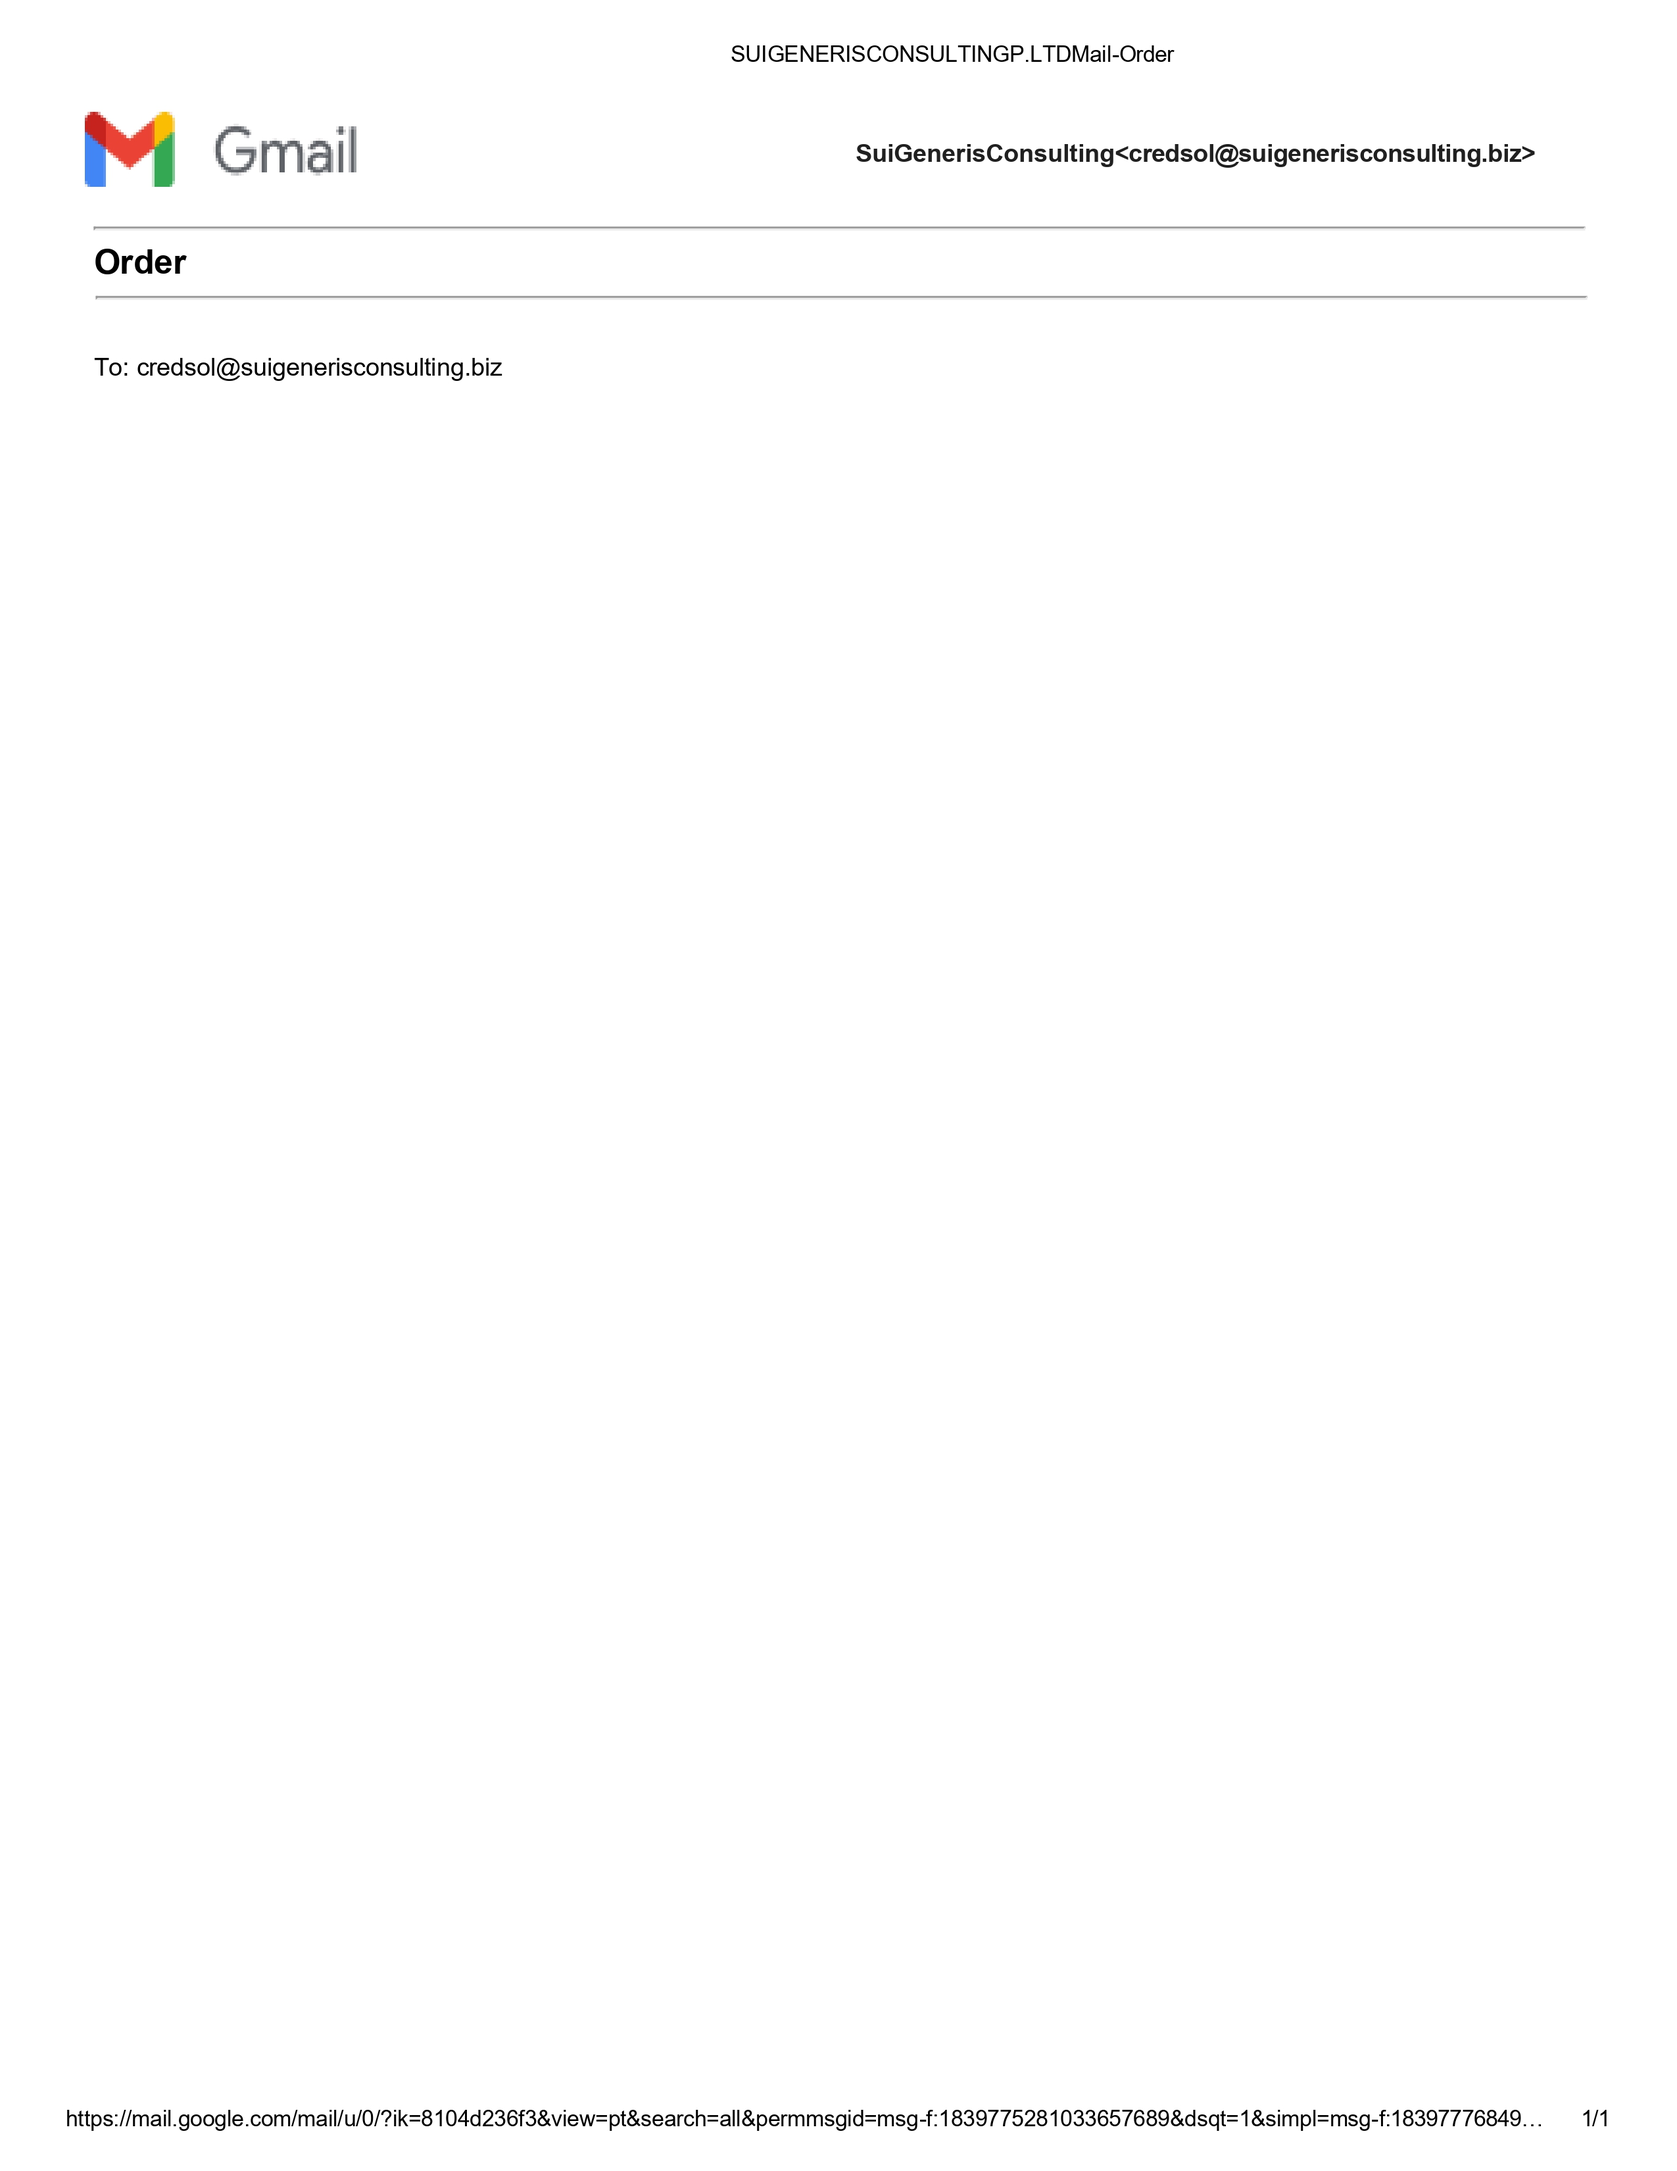
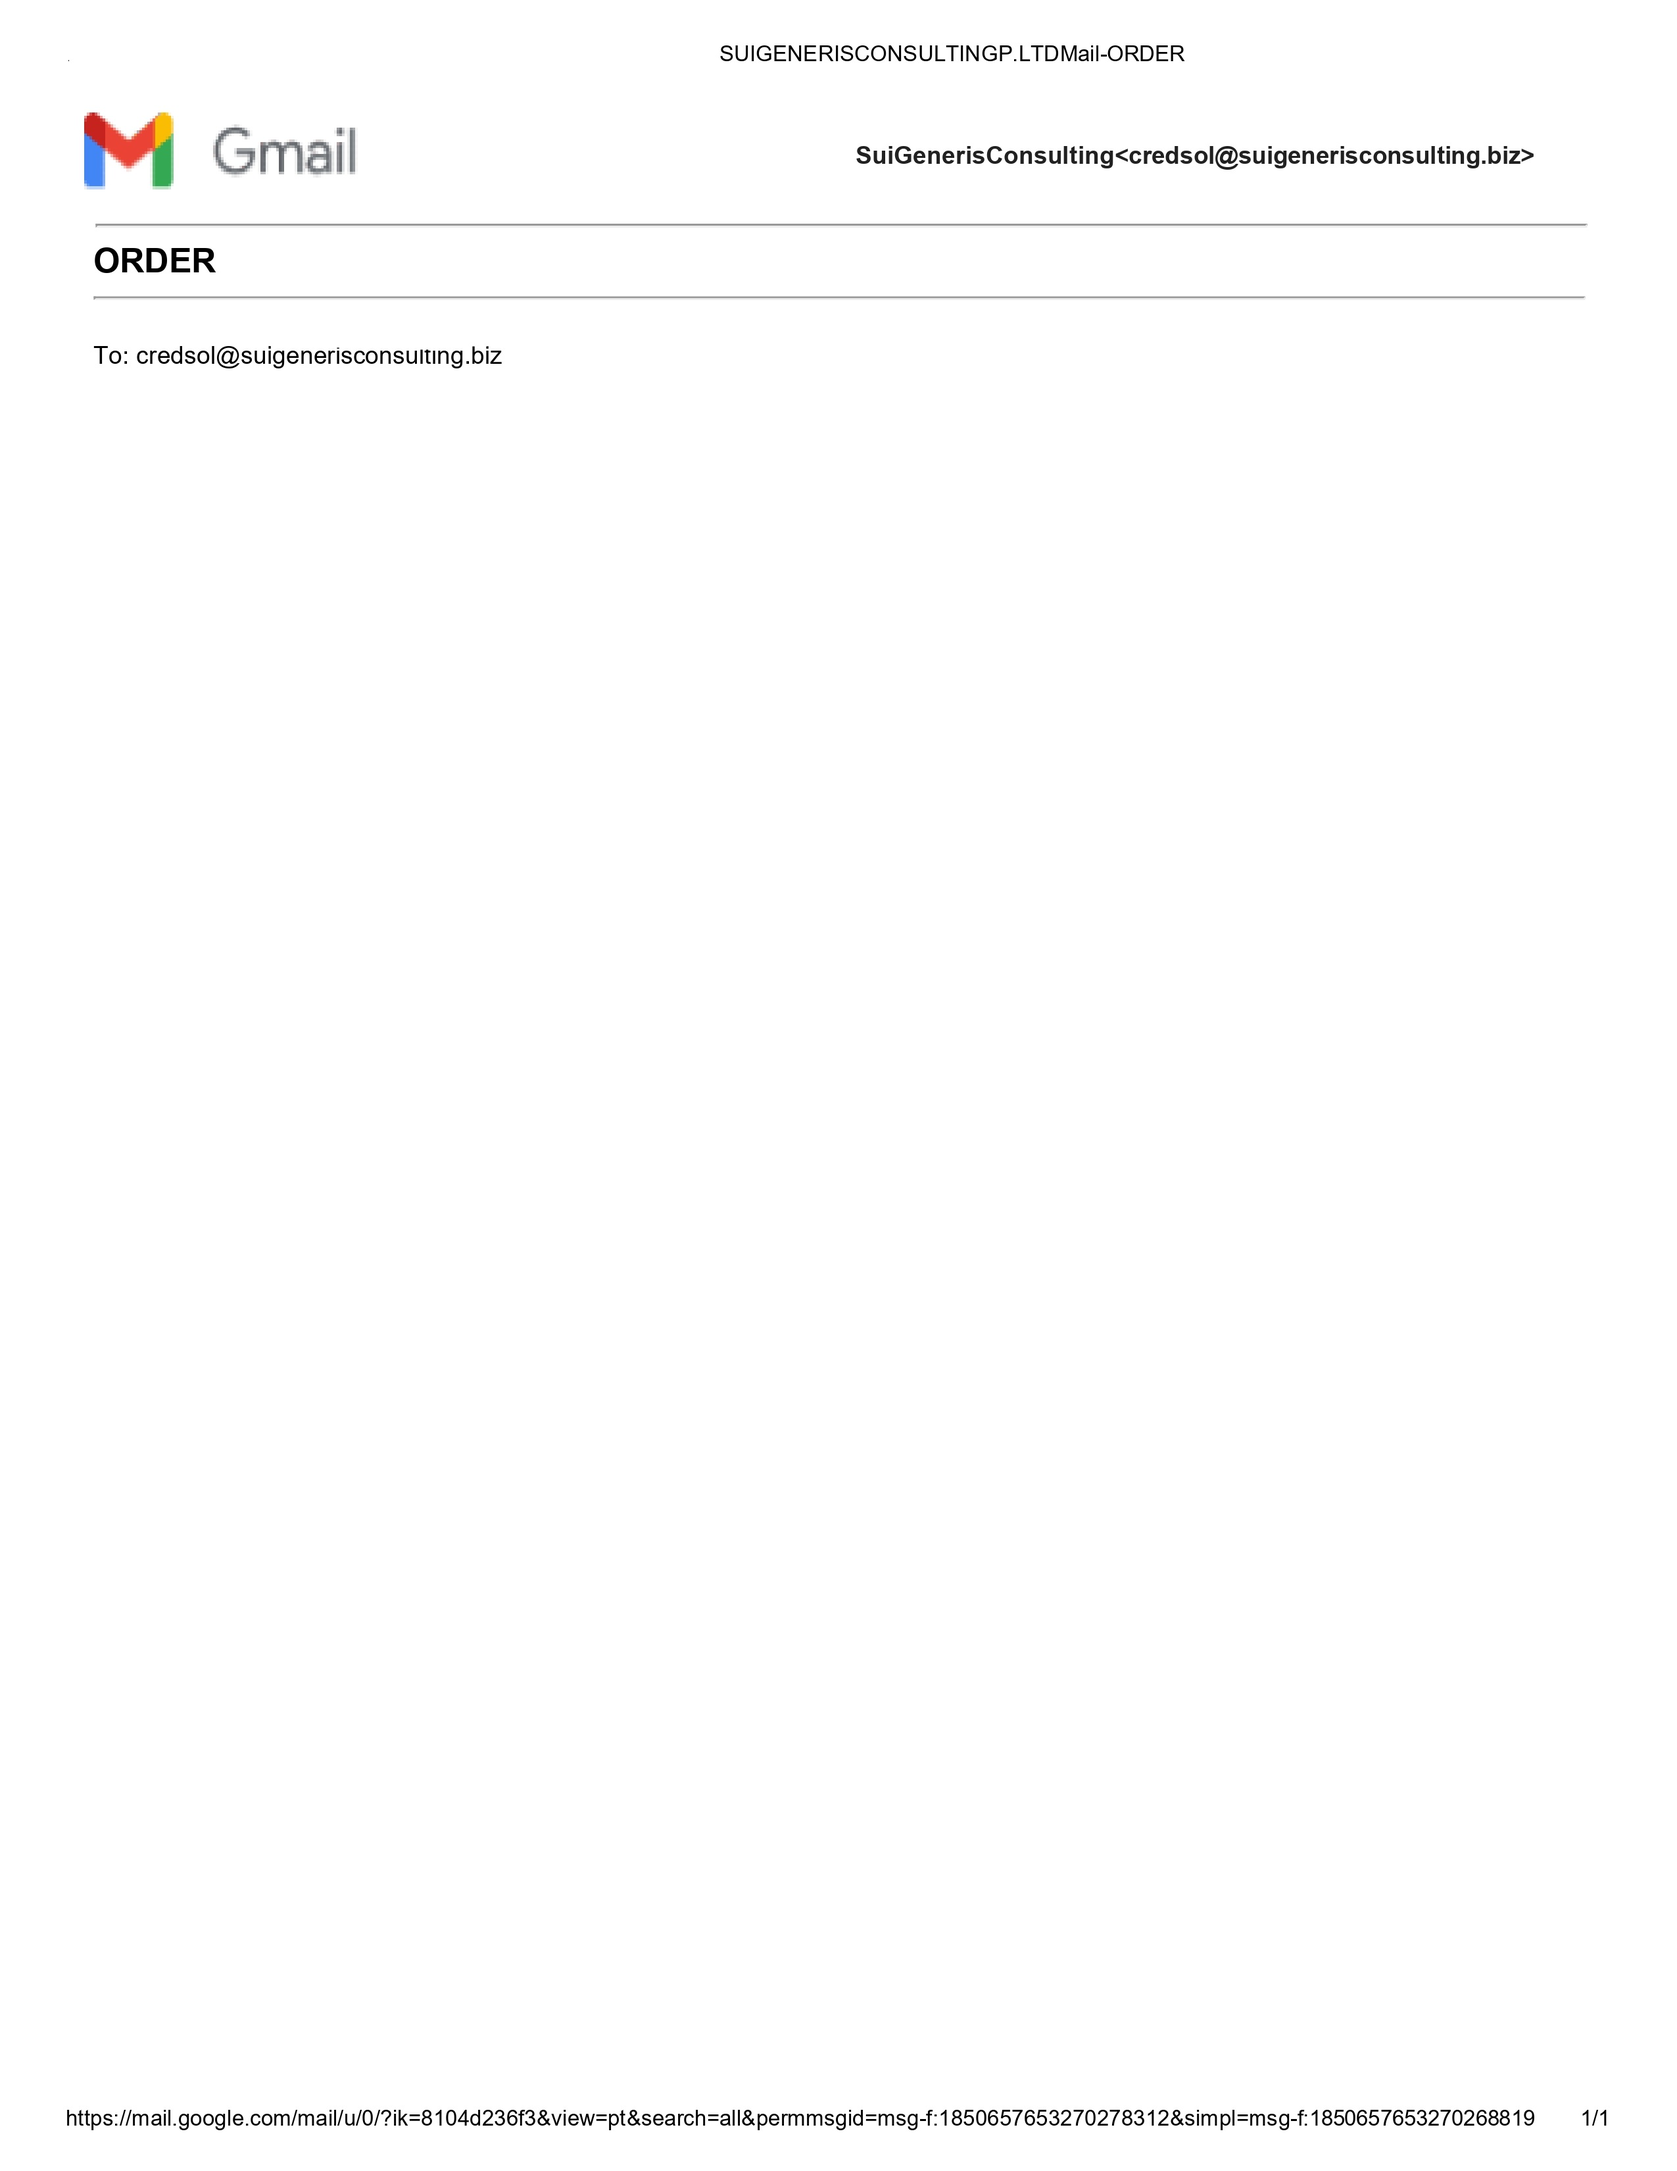
Dimention and font position

diff --git a/v4(GUI).py b/v4(GUI).py
@@ -132,9 +132,10 @@ class OrderGeneratorApp(ctk.CTk):
                 lambda row: row['Quantity'] if str(row['Transaction Type']).strip().upper() == 'BUY' else -row['Quantity'], 
                 axis=1
             )
-            filtered_df = filtered_df.sort_values(by=['Ucc Code', 'Symbol Name', 'DateTime'])
             
-            def bucket_and_aggregate(group):
+            # --- NEW BUCKETING LOGIC ---
+            def assign_bucket_ids(group):
+                group = group.sort_values('DateTime')
                 bucket_ids = []
                 current_bucket_start = None
                 bucket_id = 1
@@ -144,19 +145,40 @@ class OrderGeneratorApp(ctk.CTk):
                         bucket_id += 1
                     bucket_ids.append(bucket_id)
                 group['Bucket_ID'] = bucket_ids
-                aggregated = group.groupby('Bucket_ID').agg(
-                    Client_Name=('Client Name', 'first'),
-                    Bucket_Start_Time=('DateTime', 'min'),
-                    Net_Quantity=('Signed_Quantity', 'sum')
-                )
-                return aggregated
+                return group
 
-            buckets_df = filtered_df.groupby(['Ucc Code', 'Symbol Name']).apply(bucket_and_aggregate).reset_index()
-            buckets_df.to_excel('processed_hourly_buckets.xlsx', index=False)
+            filtered_df = filtered_df.groupby('Ucc Code', group_keys=False).apply(assign_bucket_ids)
+
+            trade_summary = filtered_df.groupby(['Ucc Code', 'Bucket_ID', 'Symbol Name']).agg(
+                Client_Name=('Client Name', 'first'),
+                Bucket_Start_Time=('DateTime', 'min'),
+                Net_Quantity=('Signed_Quantity', 'sum')
+            ).reset_index()
+
+            valid_trades = trade_summary[trade_summary['Net_Quantity'] != 0].copy()
+
+            def compile_bucket(group):
+                trades = []
+                for _, row in group.iterrows():
+                    action = "Buy" if row['Net_Quantity'] > 0 else "Sell"
+                    qty = abs(row['Net_Quantity'])
+                    trades.append({'action': action, 'quantity': qty, 'symbol': row['Symbol Name']})
+                    raw_name = str(group['Client_Name'].iloc[0])
+                    formatted_name = raw_name.title()
+                
+                return pd.Series({
+                    'Client_Name': formatted_name,
+                    'Bucket_Start_Time': group['Bucket_Start_Time'].min(),
+                    'Trades': trades
+                })
+
+            if valid_trades.empty:
+                buckets_df = pd.DataFrame()
+            else:
+                buckets_df = valid_trades.groupby(['Ucc Code', 'Bucket_ID']).apply(compile_bucket).reset_index()
 
             self.update_gui_status("Step 2: Loading Emails and Template...", 0.3)
             
-            # Load Emails
             try:
                 emails_df = pd.read_excel(emails_file)
             except Exception:
@@ -164,7 +186,6 @@ class OrderGeneratorApp(ctk.CTk):
                 
             os.makedirs(output_dir, exist_ok=True)
             
-            # Load Template
             try:
                 cached_template = ImageReader(template_file)
             except Exception as e:
@@ -172,36 +193,52 @@ class OrderGeneratorApp(ctk.CTk):
                 self.after(0, lambda: self.start_btn.configure(state="normal"))
                 return
             
-            merged_df = pd.merge(buckets_df, emails_df, left_on='Ucc Code', right_on='UCC', how='left')
-            
-            # Count valid PDFs for progress bar calculation
-            valid_rows = merged_df[merged_df['Net_Quantity'] != 0]
-            total_pdfs = len(valid_rows)
-            
-            if total_pdfs == 0:
+            if buckets_df.empty:
                 self.update_gui_status("No valid trades found to generate PDFs.", 1.0, color="orange")
                 self.after(0, lambda: self.start_btn.configure(state="normal"))
                 return
 
+            merged_df = pd.merge(buckets_df, emails_df, left_on='Ucc Code', right_on='UCC', how='left')
+            total_pdfs = len(merged_df)
+            
             self.update_gui_status(f"Generating {total_pdfs} PDFs...", 0.4)
             
             pdf_count = 0
-            for index, row in valid_rows.iterrows():
-                action = "Buy" if row['Net_Quantity'] > 0 else "Sell"
-                quantity = abs(row['Net_Quantity'])
+            last_top_left_dt = None  # Track the last generated time to enforce the gap
+            
+            for index, row in merged_df.iterrows():
                 
                 start_time = pd.to_datetime(row['Bucket_Start_Time'])
                 offset_minutes = random.choice([2, 3])
                 email_time = start_time - timedelta(minutes=offset_minutes)
                 
-                top_left_date = email_time.strftime("%d/%m/%Y,%H:%M")
-                email_header_date = email_time.strftime("%a, %b %d, %Y at %I:%M %p")
+                # --- UPDATED LOGIC: Staggered timings (15:30 to 16:30 with >= 2 min gap) ---
+                base_1530 = start_time.replace(hour=15, minute=30, second=0)
+                max_1630 = start_time.replace(hour=16, minute=30, second=0)
+
+                # If it's the very first PDF, or the first PDF of a new date
+                if last_top_left_dt is None or last_top_left_dt.date() != base_1530.date():
+                    top_left_dt = base_1530 + timedelta(minutes=random.randint(0, 3))
+                else:
+                    # Enforce a 2-minute gap from the last PDF, plus 0-3 random extra minutes
+                    min_next_time = last_top_left_dt + timedelta(minutes=2)
+                    top_left_dt = min_next_time + timedelta(minutes=random.randint(0, 3))
+                    
+                    # Safety catch: Cap at 16:30 
+                    if top_left_dt > max_1630:
+                        top_left_dt = max_1630
                 
+                last_top_left_dt = top_left_dt # Update tracker
+                
+                top_left_date = f"{top_left_dt.strftime('%d/%m/%Y')},{top_left_dt.hour}:{top_left_dt.strftime('%M')}"
+                email_header_date = f"{email_time.strftime('%a, %b %d, %Y at')} {email_time.strftime('%I').lstrip('0')}:{email_time.strftime('%M %p')}"
+                # -------------------------------------------------------------------------
+
                 client_email = row.get('EMAIL')
                 if pd.isna(client_email):
                     client_email = "client@example.com"
                 
-                filename = f"{output_dir}/{row['Ucc Code']}_{row['Symbol Name']}_{email_time.strftime('%H%M%S')}.pdf"
+                filename = f"{output_dir}/{row['Client_Name']}_{row['Ucc Code']}_{top_left_dt.strftime('%H%M%S')}.pdf"
                 
                 self.generate_single_pdf_from_template(
                     filename=filename,
@@ -209,30 +246,25 @@ class OrderGeneratorApp(ctk.CTk):
                     email_header_date=email_header_date,
                     client_name=row['Client_Name'],
                     client_email=client_email,
-                    action=action,
-                    quantity=quantity,
-                    stock_code=row['Symbol Name'],
+                    trades_list=row['Trades'],
                     ucc=row['Ucc Code'],
                     template_obj=cached_template
                 )
                 
                 pdf_count += 1
-                
-                # Update progress bar (mapping 0.4 to 1.0)
                 progress = 0.4 + (0.6 * (pdf_count / total_pdfs))
                 self.update_gui_status(f"Generated {pdf_count} of {total_pdfs} PDFs...", progress)
 
-            self.update_gui_status(f"Success! {pdf_count} PDFs saved to {output_dir}", 1.0, color="#2FA572") # Green
+            self.update_gui_status(f"Success! {pdf_count} PDFs saved to:\n{output_dir}", 1.0, color="#2FA572")
 
         except Exception as e:
             self.update_gui_status(f"Error: {str(e)}", color="red")
         
         finally:
-            # Re-enable the button when done or if it crashed
             self.after(0, lambda: self.start_btn.configure(state="normal"))
 
-    # --- Your fine-tuned PDF generation logic ---
-    def generate_single_pdf_from_template(self, filename, top_left_date, email_header_date, client_name, client_email, action, quantity, stock_code, ucc, template_obj):
+    # --- PDF GENERATION LOGIC ---
+    def generate_single_pdf_from_template(self, filename, top_left_date, email_header_date, client_name, client_email, trades_list, ucc, template_obj):
         c = canvas.Canvas(filename, pagesize=A4)
         width, height = A4
         
@@ -243,27 +275,35 @@ class OrderGeneratorApp(ctk.CTk):
         
         c.setFillColorRGB(0, 0, 0)
         c.setFont("Helvetica", 8)
-        c.drawString(left_margin, height - 0.3 * inch, top_left_date)
+        c.drawString(left_margin - 0.3 * inch, height - 0.3 * inch, top_left_date)
         
         c.setFont("Helvetica-Bold", 9)
         y_pos_from = height - 1.8 * inch
-        c.drawString(left_margin, y_pos_from, str(client_name))
+        c.drawString(left_margin - 0.14 * inch, y_pos_from, str(client_name))
         
         name_width = c.stringWidth(str(client_name), "Helvetica-Bold", 9)
         c.setFont("Helvetica", 9)
-        c.drawString(left_margin + name_width + 4 , y_pos_from, f"<{client_email}>")
+        c.drawString(left_margin + name_width - 0.1 * inch, y_pos_from, f"<{client_email}>")
         
-        c.drawRightString(right_margin, y_pos_from, email_header_date)
+        c.drawRightString(right_margin + 0.14 * inch, y_pos_from, email_header_date)
         
-        c.setFont("Helvetica", 10)
-        c.setFillColorRGB(0.35, 0.1, 0.35)
+        c.setFont("Helvetica", 8)
+        c.setFillColorRGB(0, 0, 0)
         
         y_pos_body_start = height - 2.5 * inch
         
-        c.drawString(left_margin, y_pos_body_start, "Dear Team,")
-        c.drawString(left_margin, y_pos_body_start - 15, f"{action} {int(quantity)} {str(stock_code).lower()} at cmp")
-        c.drawString(left_margin, y_pos_body_start - 35, str(client_name))
-        c.drawString(left_margin, y_pos_body_start - 55, str(ucc))
+        c.drawString(left_margin, y_pos_body_start, "Dear Mam/Sir")
+        c.drawString(left_margin, y_pos_body_start - 25, "Please execute below order-")
+        
+        y_offset = 38
+        for trade in trades_list:
+            c.drawString(left_margin, y_pos_body_start - y_offset, f"{trade['action']} {int(trade['quantity'])} {str(trade['symbol']).lower()} at cmp")
+            y_offset += 12 
+        
+        y_offset += 15 
+        c.drawString(left_margin, y_pos_body_start - y_offset, "Regards")
+        c.drawString(left_margin, y_pos_body_start - y_offset - 12, f"{client_name} ")
+        c.drawString(left_margin, y_pos_body_start - y_offset - 24, str(ucc))
         
         c.save()
 
